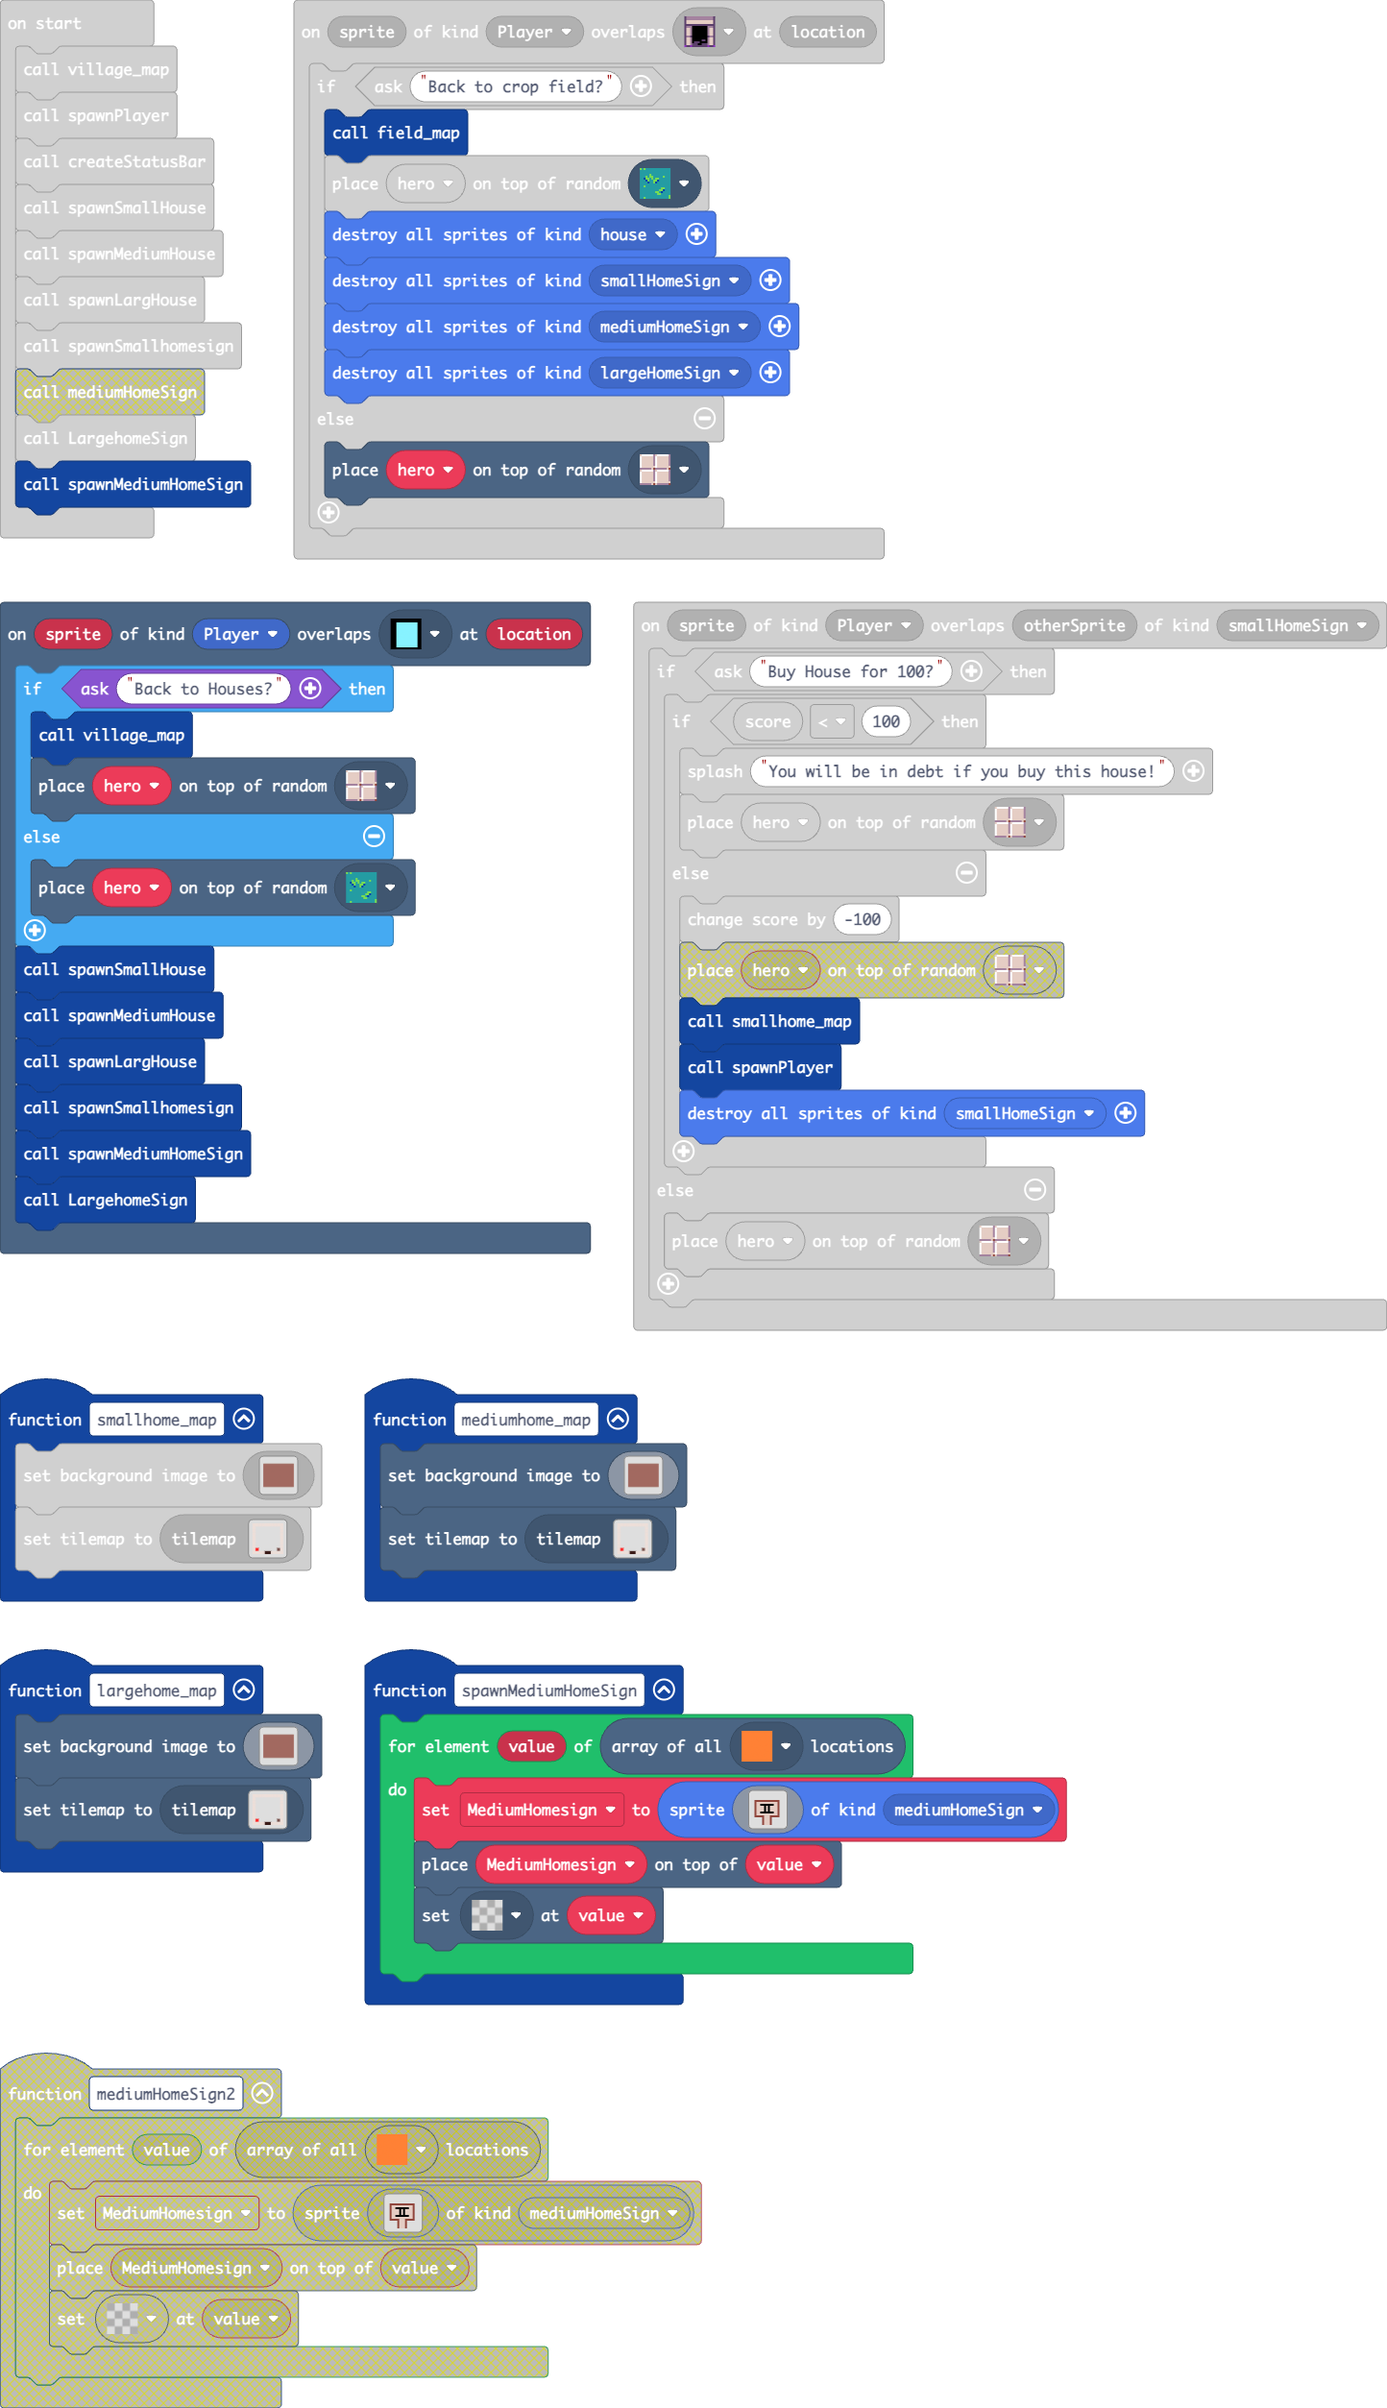
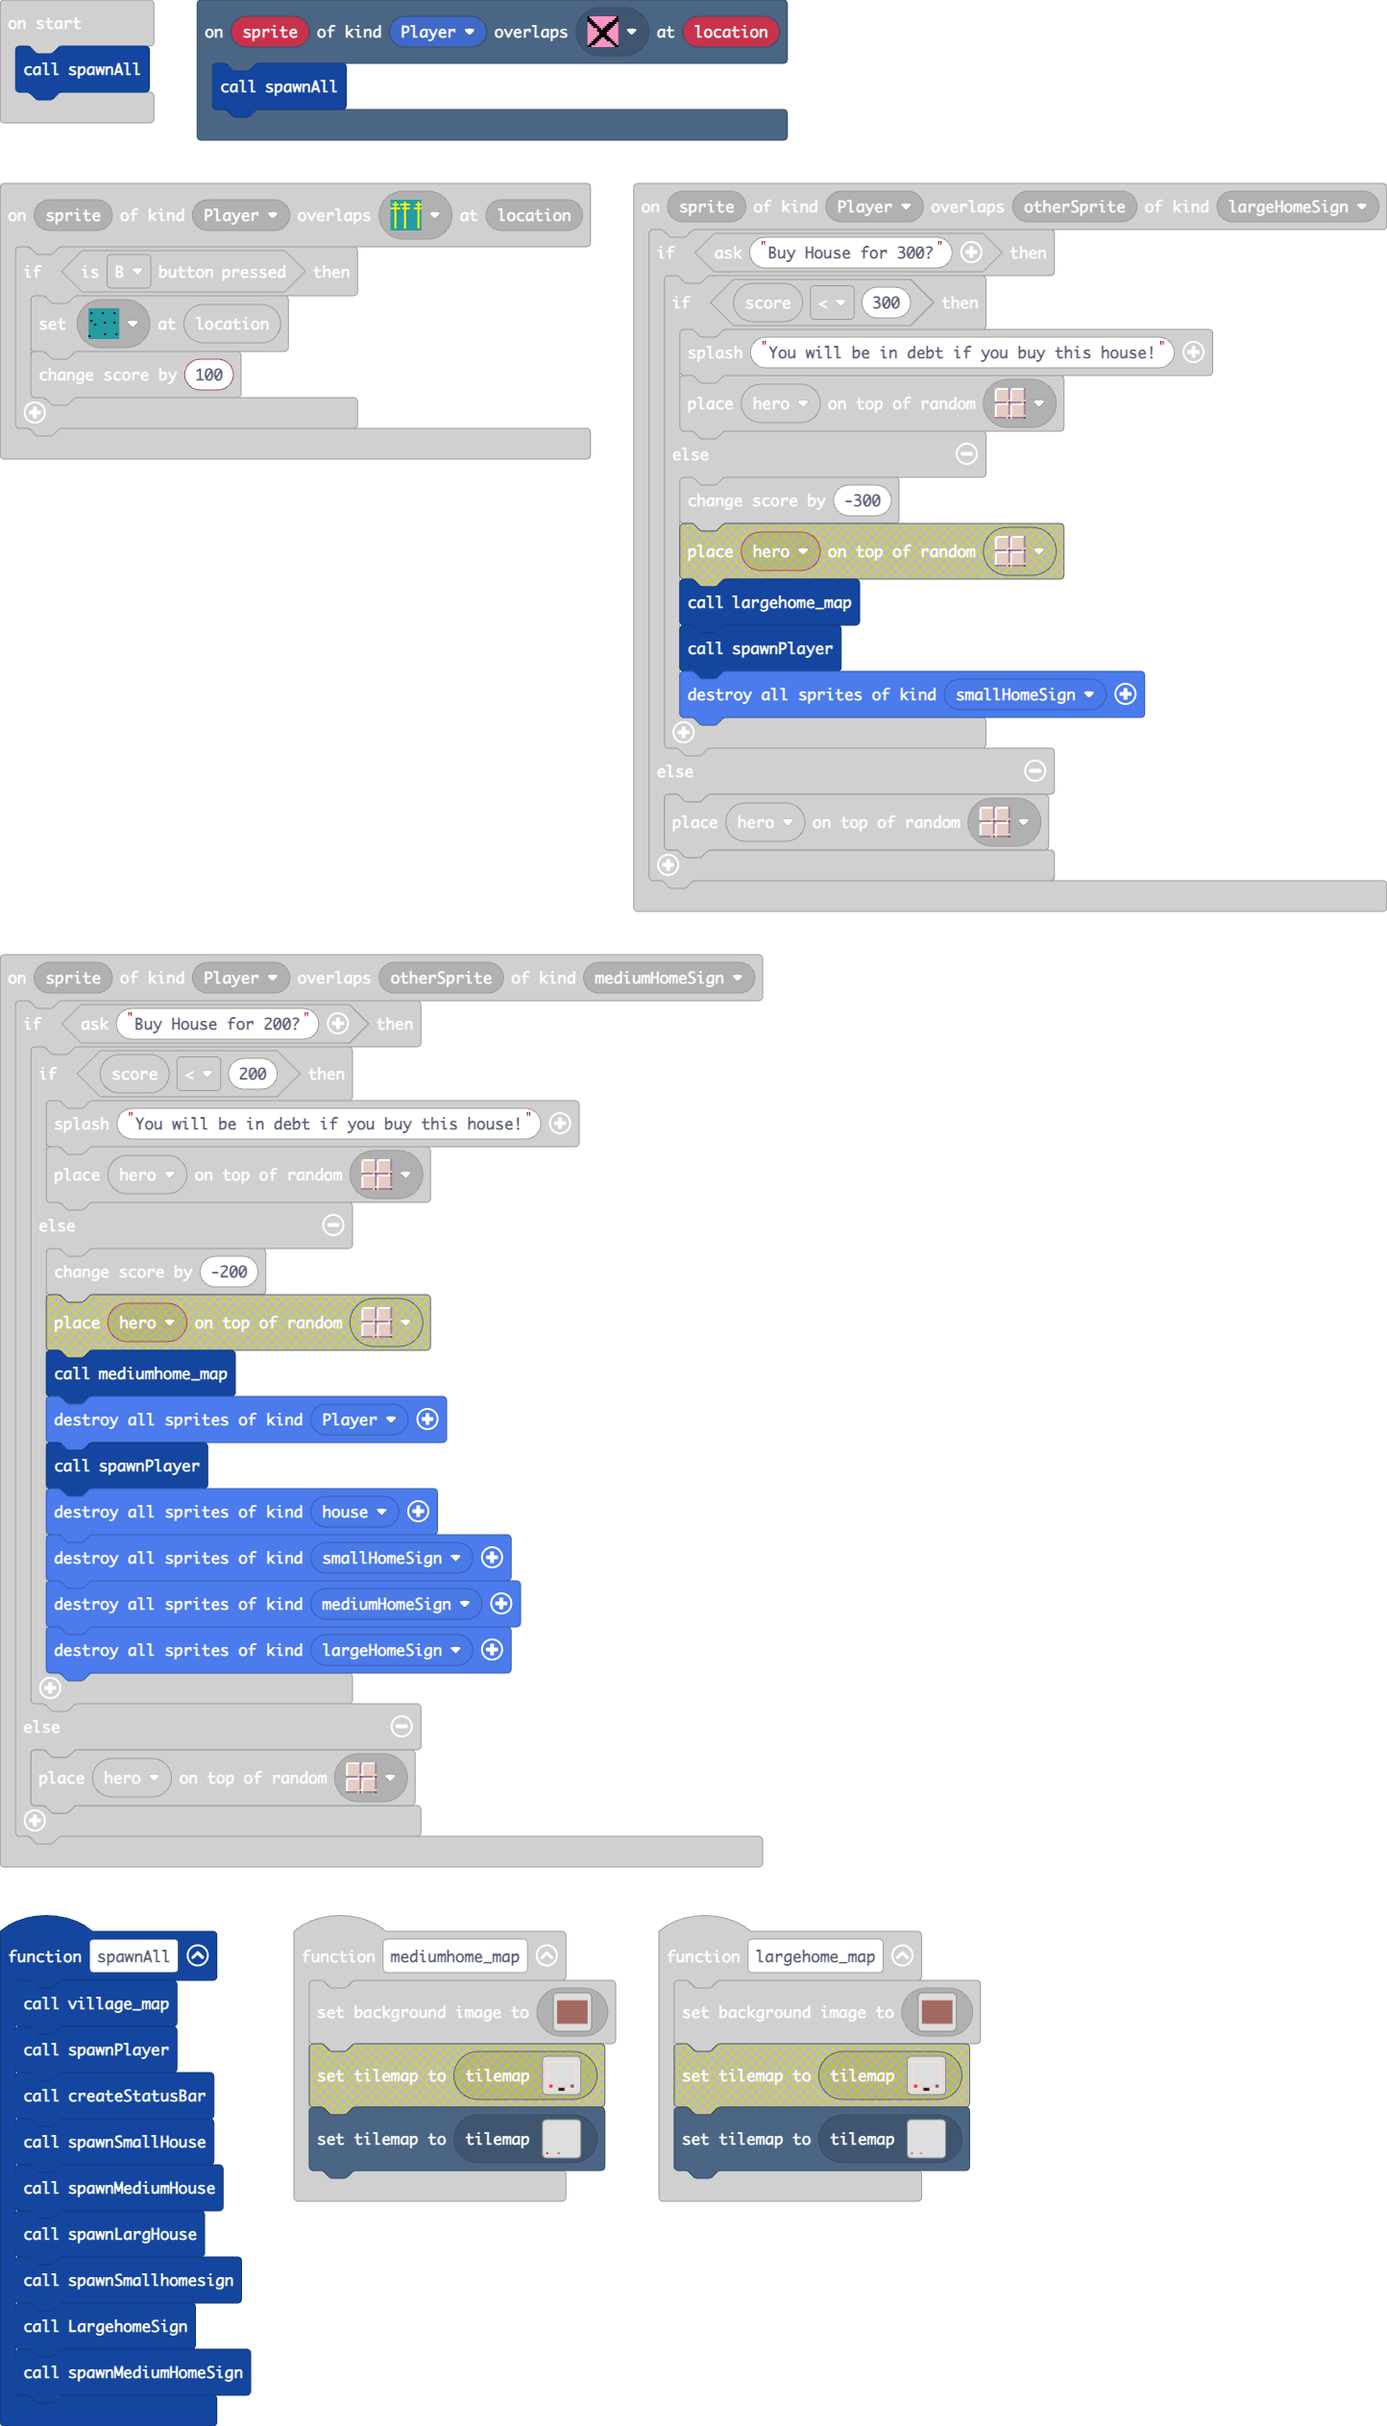
Update main.blocks, main.ts, tilemap.g.jres, tilemap.g.ts

diff --git a/tilemap.g.ts b/tilemap.g.ts
@@ -42,6 +42,8 @@ namespace myTiles {
     export const tile19 = image.ofBuffer(hex``);
     //% fixedInstance jres blockIdentity=images._tile
     export const tile20 = image.ofBuffer(hex``);
+    //% fixedInstance jres blockIdentity=images._tile
+    export const tile21 = image.ofBuffer(hex``);
 
     helpers._registerFactory("tilemap", function(name: string) {
         switch(helpers.stringTrim(name)) {
@@ -241,6 +243,63 @@ namespace myTiles {
 . . . . . . . . . . . . . . . . 
 . . . . . . . . . . . . . . . . 
 `, [myTiles.transparency16], TileScale.Sixteen);
+            case "level13":
+            case "level13":return tiles.createTilemap(hex`1000100000000000000000000000000000000000000000000000000000000000000000000000000000000000000000000000000000000000000000000000000000000000000000000000000000000000000000000000000000000000000000000000000000000000000000000000000000000000000000000000000000000000000000000000000000000000000000000000000000000000000000000000000000000000000000000000000000000000000000000000000000000000000000000000000000000000000000000000000000000000000000000000000000000000000000000000000000000000000000000000000000000000000000000000000000000000`, img`
+. . . . . . . . . . . . . . . . 
+. . . . . . . . . . . . . . . . 
+. . . . . . . . . . . . . . . . 
+. . . . . . . . . . . . . . . . 
+. . . . . . . . . . . . . . . . 
+. . . . . . . . . . . . . . . . 
+. . . . . . . . . . . . . . . . 
+. . . . . . . . . . . . . . . . 
+. . . . . . . . . . . . . . . . 
+. . . . . . . . . . . . . . . . 
+. . . . . . . . . . . . . . . . 
+. . . . . . . . . . . . . . . . 
+. . . . . . . . . . . . . . . . 
+. . . . . . . . . . . . . . . . 
+. . . . . . . . . . . . . . . . 
+. . . . . . . . . . . . . . . . 
+`, [myTiles.transparency16], TileScale.Sixteen);
+            case "level14":
+            case "level14":return tiles.createTilemap(hex`1000100000000000000000000000000000000000000000000000000000000000000000000000000000000000000000000000000000000000000000000000000000000000000000000000000000000000000000000000000000000000000000000000000000000000000000000000000000000000000000000000000000000000000000000000000000000000000000000000000000000000000000000000000000000000000000000000000000000000000000000000000000000000000000000000000000000000000000000000000000000000000000000000000000000000000000000000000000000000000000000000000000000000000000000000000000000000`, img`
+. . . . . . . . . . . . . . . . 
+. . . . . . . . . . . . . . . . 
+. . . . . . . . . . . . . . . . 
+. . . . . . . . . . . . . . . . 
+. . . . . . . . . . . . . . . . 
+. . . . . . . . . . . . . . . . 
+. . . . . . . . . . . . . . . . 
+. . . . . . . . . . . . . . . . 
+. . . . . . . . . . . . . . . . 
+. . . . . . . . . . . . . . . . 
+. . . . . . . . . . . . . . . . 
+. . . . . . . . . . . . . . . . 
+. . . . . . . . . . . . . . . . 
+. . . . . . . . . . . . . . . . 
+. . . . . . . . . . . . . . . . 
+. . . . . . . . . . . . . . . . 
+`, [myTiles.transparency16], TileScale.Sixteen);
+            case "level16":
+            case "level16":return tiles.createTilemap(hex`1000100000000000000000000000000000000000000000000000000000000000000000000000000000000000000000000000000000000000000000000000000000000000000000000000000000000000000000000000000000000000000000000000000000000000000000000000000000000000000000000000000000000000000000000000000000000000000000000000000000000000000000000000000000000000000000000000000000000000000000000000000000000000000000000000000000000000000000000000000000000000000000000000000000000000000000000000000000000000000000000000000000000000000000000000000000000000`, img`
+. . . . . . . . . . . . . . . . 
+. . . . . . . . . . . . . . . . 
+. . . . . . . . . . . . . . . . 
+. . . . . . . . . . . . . . . . 
+. . . . . . . . . . . . . . . . 
+. . . . . . . . . . . . . . . . 
+. . . . . . . . . . . . . . . . 
+. . . . . . . . . . . . . . . . 
+. . . . . . . . . . . . . . . . 
+. . . . . . . . . . . . . . . . 
+. . . . . . . . . . . . . . . . 
+. . . . . . . . . . . . . . . . 
+. . . . . . . . . . . . . . . . 
+. . . . . . . . . . . . . . . . 
+. . . . . . . . . . . . . . . . 
+. . . . . . . . . . . . . . . . 
+`, [myTiles.transparency16], TileScale.Sixteen);
             case "level4":
[1 lines of base64/hex data omitted]
 2 2 2 2 2 2 2 2 2 2 
@@ -253,7 +312,87 @@ namespace myTiles {
 2 . . . . . . . . 2 
 2 . . . . . . . . 2 
 2 2 2 2 . . 2 2 2 2 
-`, [myTiles.transparency16,myTiles.tile3,sprites.builtin.brick,myTiles.tile6,myTiles.tile10], TileScale.Sixteen);
+`, [myTiles.transparency16,myTiles.tile3,sprites.builtin.brick,myTiles.tile6,myTiles.tile10,myTiles.tile21], TileScale.Sixteen);
+            case "level15":
+            case "level15":return tiles.createTilemap(hex`1000100000000000000000000000000000000000000000000000000000000000000000000000000000000000000000000000000000000000000000000000000000000000000000000000000000000000000000000000000000000000000000000000000000000000000000000000000000000000000000000000000000000000000000000000000000000000000000000000000000000000000000000000000000000000000000000000000000000000000000000000000000000000000000000000000000000000000000000000000000000000000000000000000000000000000000000000000000000000000000000000000001000000000002000000000000000000`, img`
+. . . . . . . . . . . . . . . . 
+. . . . . . . . . . . . . . . . 
+. . . . . . . . . . . . . . . . 
+. . . . . . . . . . . . . . . . 
+. . . . . . . . . . . . . . . . 
+. . . . . . . . . . . . . . . . 
+. . . . . . . . . . . . . . . . 
+. . . . . . . . . . . . . . . . 
+. . . . . . . . . . . . . . . . 
+. . . . . . . . . . . . . . . . 
+. . . . . . . . . . . . . . . . 
+. . . . . . . . . . . . . . . . 
+. . . . . . . . . . . . . . . . 
+. . . . . . . . . . . . . . . . 
+. . . . . . . . . . . . . . . . 
+. . . . . . . . . . . . . . . . 
+`, [myTiles.transparency16,myTiles.tile10,myTiles.tile21], TileScale.Sixteen);
+            case "level17":
+            case "level17":return tiles.createTilemap(hex`1400140000000000000000000000000000000000000000000000000000000000000000000000000000000000000000000000000000000000000000000000000000000000000000000000000000000000000000000000000000000000000000000000000000000000000000000000000000000000000000000000000000000000000000000000000000000000000000000000000000000000000000000000000000000000000000000000000000000000000000000000000000000000000000000000000000000000000000000000000000000000000000000000000000000000000000000000000000000000000000000000000000000000000000000000000000000000000000000000000000000000000000000000000000000000000000000000000000000000000000000000000000000000000000000000000000000000000000000000000000000000000000000000000000000000000000000000000000000000000000000000000000000000000000000000000000000000000000000100000000000200000000000000000000000000`, img`
+....................
+....................
+....................
+....................
+....................
+....................
+....................
+....................
+....................
+....................
+....................
+....................
+....................
+....................
+....................
+....................
+....................
+....................
+....................
+....................
+`, [myTiles.transparency16,myTiles.tile10,myTiles.tile21], TileScale.Sixteen);
+            case "level18":
+            case "level18":return tiles.createTilemap(hex`1000100000000000000000000000000000000000000000000000000000000000000000000000000000000000000000000000000000000000000000000000000000000000000000000000000000000000000000000000000000000000000000000000000000000000000000000000000000000000000000000000000000000000000000000000000000000000000000000000000000000000000000000000000000000000000000000000000000000000000000000000000000000000000000000000000000000000000000000000000000000000000000000000000000000000000000000000000000000000000000000000000000000000000000000000000000000000`, img`
+. . . . . . . . . . . . . . . . 
+. . . . . . . . . . . . . . . . 
+. . . . . . . . . . . . . . . . 
+. . . . . . . . . . . . . . . . 
+. . . . . . . . . . . . . . . . 
+. . . . . . . . . . . . . . . . 
+. . . . . . . . . . . . . . . . 
+. . . . . . . . . . . . . . . . 
+. . . . . . . . . . . . . . . . 
+. . . . . . . . . . . . . . . . 
+. . . . . . . . . . . . . . . . 
+. . . . . . . . . . . . . . . . 
+. . . . . . . . . . . . . . . . 
+. . . . . . . . . . . . . . . . 
+. . . . . . . . . . . . . . . . 
+. . . . . . . . . . . . . . . . 
+`, [myTiles.transparency16], TileScale.Sixteen);
+            case "level19":
+            case "level19":return tiles.createTilemap(hex`1000100000000000000000000000000000000000000000000000000000000000000000000000000000000000000000000000000000000000000000000000000000000000000000000000000000000000000000000000000000000000000000000000000000000000000000000000000000000000000000000000000000000000000000000000000000000000000000000000000000000000000000000000000000000000000000000000000000000000000000000000000000000000000000000000000000000000000000000000000000000000000000000000000000000000000000000000000000000000000000000000000000000000000000000000000000000000`, img`
+. . . . . . . . . . . . . . . . 
+. . . . . . . . . . . . . . . . 
+. . . . . . . . . . . . . . . . 
+. . . . . . . . . . . . . . . . 
+. . . . . . . . . . . . . . . . 
+. . . . . . . . . . . . . . . . 
+. . . . . . . . . . . . . . . . 
+. . . . . . . . . . . . . . . . 
+. . . . . . . . . . . . . . . . 
+. . . . . . . . . . . . . . . . 
+. . . . . . . . . . . . . . . . 
+. . . . . . . . . . . . . . . . 
+. . . . . . . . . . . . . . . . 
+. . . . . . . . . . . . . . . . 
+. . . . . . . . . . . . . . . . 
+. . . . . . . . . . . . . . . . 
+`, [myTiles.transparency16], TileScale.Sixteen);
         }
         return null;
     })
@@ -301,6 +440,8 @@ namespace myTiles {
             case "tile19":return tile19;
             case "myTile18":
             case "tile20":return tile20;
+            case "myTile19":
+            case "tile21":return tile21;
         }
         return null;
     })

diff --git a/main.ts b/main.ts
@@ -67,6 +67,20 @@ function spawnLargHouse () {
         LargeHome.setScale(1.5, ScaleAnchor.Middle)
     }
 }
+scene.onOverlapTile(SpriteKind.Player, assets.tile`myTile19`, function (sprite, location) {
+    spawnAll()
+})
+function spawnAll () {
+    village_map()
+    spawnPlayer()
+    createStatusBar()
+    spawnSmallHouse()
+    spawnMediumHouse()
+    spawnLargHouse()
+    spawnSmallhomesign()
+    LargehomeSign()
+    spawnMediumHomeSign()
+}
 function village_map () {
     scene.setBackgroundImage(img`
         1111111111111111111111111111111111111111111111111111111111111111111111111111111111111111111111111111111111111111111111111111111111111111111111111111111111111111
@@ -428,7 +442,7 @@ function largehome_map () {
         eeeeeeeeeeeeeeeeeeeeeeeeeeeeeeeeeeeeeeeeeeeeeeeeeeeeeeeeeeeeeeeeeeeeeeeeeeeeeeeeeeeeeeeeeeeeeeeeeeeeeeeeeeeeeeeeeeeeeeeeeeeeeeeeeeeeeeeeeeeeeeeeeeeeeeeeeeeeeeee
         eeeeeeeeeeeeeeeeeeeeeeeeeeeeeeeeeeeeeeeeeeeeeeeeeeeeeeeeeeeeeeeeeeeeeeeeeeeeeeeeeeeeeeeeeeeeeeeeeeeeeeeeeeeeeeeeeeeeeeeeeeeeeeeeeeeeeeeeeeeeeeeeeeeeeeeeeeeeeeee
         `)
-    tiles.setCurrentTilemap(tilemap`level4`)
+    tiles.setCurrentTilemap(tilemap`level17`)
 }
 sprites.onOverlap(SpriteKind.Player, SpriteKind.mediumHomeSign, function (sprite, otherSprite) {
     if (game.ask("Buy House for 200?")) {
@@ -437,7 +451,13 @@ sprites.onOverlap(SpriteKind.Player, SpriteKind.mediumHomeSign, function (sprite
             tiles.placeOnRandomTile(hero, sprites.dungeon.floorLight0)
         } else {
             info.changeScoreBy(-200)
-            tiles.placeOnRandomTile(hero, sprites.dungeon.floorLight0)
+            mediumhome_map()
+            sprites.destroyAllSpritesOfKind(SpriteKind.Player)
+            spawnPlayer()
+            sprites.destroyAllSpritesOfKind(SpriteKind.house)
+            sprites.destroyAllSpritesOfKind(SpriteKind.smallHomeSign)
+            sprites.destroyAllSpritesOfKind(SpriteKind.mediumHomeSign)
+            sprites.destroyAllSpritesOfKind(SpriteKind.largeHomeSign)
         }
     } else {
         tiles.placeOnRandomTile(hero, sprites.dungeon.floorLight0)
@@ -621,7 +641,7 @@ function createStatusBar () {
 scene.onOverlapTile(SpriteKind.Player, assets.tile`myTile5`, function (sprite, location) {
     if (controller.B.isPressed()) {
         tiles.setTileAt(location, assets.tile`myTile7`)
-        info.changeScoreBy(1)
+        info.changeScoreBy(100)
     }
 })
 sprites.onOverlap(SpriteKind.Player, SpriteKind.largeHomeSign, function (sprite, otherSprite) {
@@ -631,7 +651,9 @@ sprites.onOverlap(SpriteKind.Player, SpriteKind.largeHomeSign, function (sprite,
             tiles.placeOnRandomTile(hero, sprites.dungeon.floorLight0)
         } else {
             info.changeScoreBy(-300)
-            tiles.placeOnRandomTile(hero, sprites.dungeon.floorLight0)
+            largehome_map()
+            spawnPlayer()
+            sprites.destroyAllSpritesOfKind(SpriteKind.smallHomeSign)
         }
     } else {
         tiles.placeOnRandomTile(hero, sprites.dungeon.floorLight0)
@@ -760,7 +782,7 @@ function mediumhome_map () {
         eeeeeeeeeeeeeeeeeeeeeeeeeeeeeeeeeeeeeeeeeeeeeeeeeeeeeeeeeeeeeeeeeeeeeeeeeeeeeeeeeeeeeeeeeeeeeeeeeeeeeeeeeeeeeeeeeeeeeeeeeeeeeeeeeeeeeeeeeeeeeeeeeeeeeeeeeeeeeeee
         eeeeeeeeeeeeeeeeeeeeeeeeeeeeeeeeeeeeeeeeeeeeeeeeeeeeeeeeeeeeeeeeeeeeeeeeeeeeeeeeeeeeeeeeeeeeeeeeeeeeeeeeeeeeeeeeeeeeeeeeeeeeeeeeeeeeeeeeeeeeeeeeeeeeeeeeeeeeeeee
         `)
-    tiles.setCurrentTilemap(tilemap`level4`)
+    tiles.setCurrentTilemap(tilemap`level15`)
 }
 sprites.onOverlap(SpriteKind.Player, SpriteKind.smallHomeSign, function (sprite, otherSprite) {
     if (game.ask("Buy House for 100?")) {
@@ -1175,15 +1197,7 @@ let MediumHome: Sprite = null
 let SmallHome: Sprite = null
 let LargeHome: Sprite = null
 let statusbar: StatusBarSprite = null
-village_map()
-spawnPlayer()
-createStatusBar()
-spawnSmallHouse()
-spawnMediumHouse()
-spawnLargHouse()
-spawnSmallhomesign()
-LargehomeSign()
-spawnMediumHomeSign()
+spawnAll()
 game.onUpdateInterval(100, function () {
     if (controller.A.isPressed()) {
         if (statusbar.value >= 1) {
